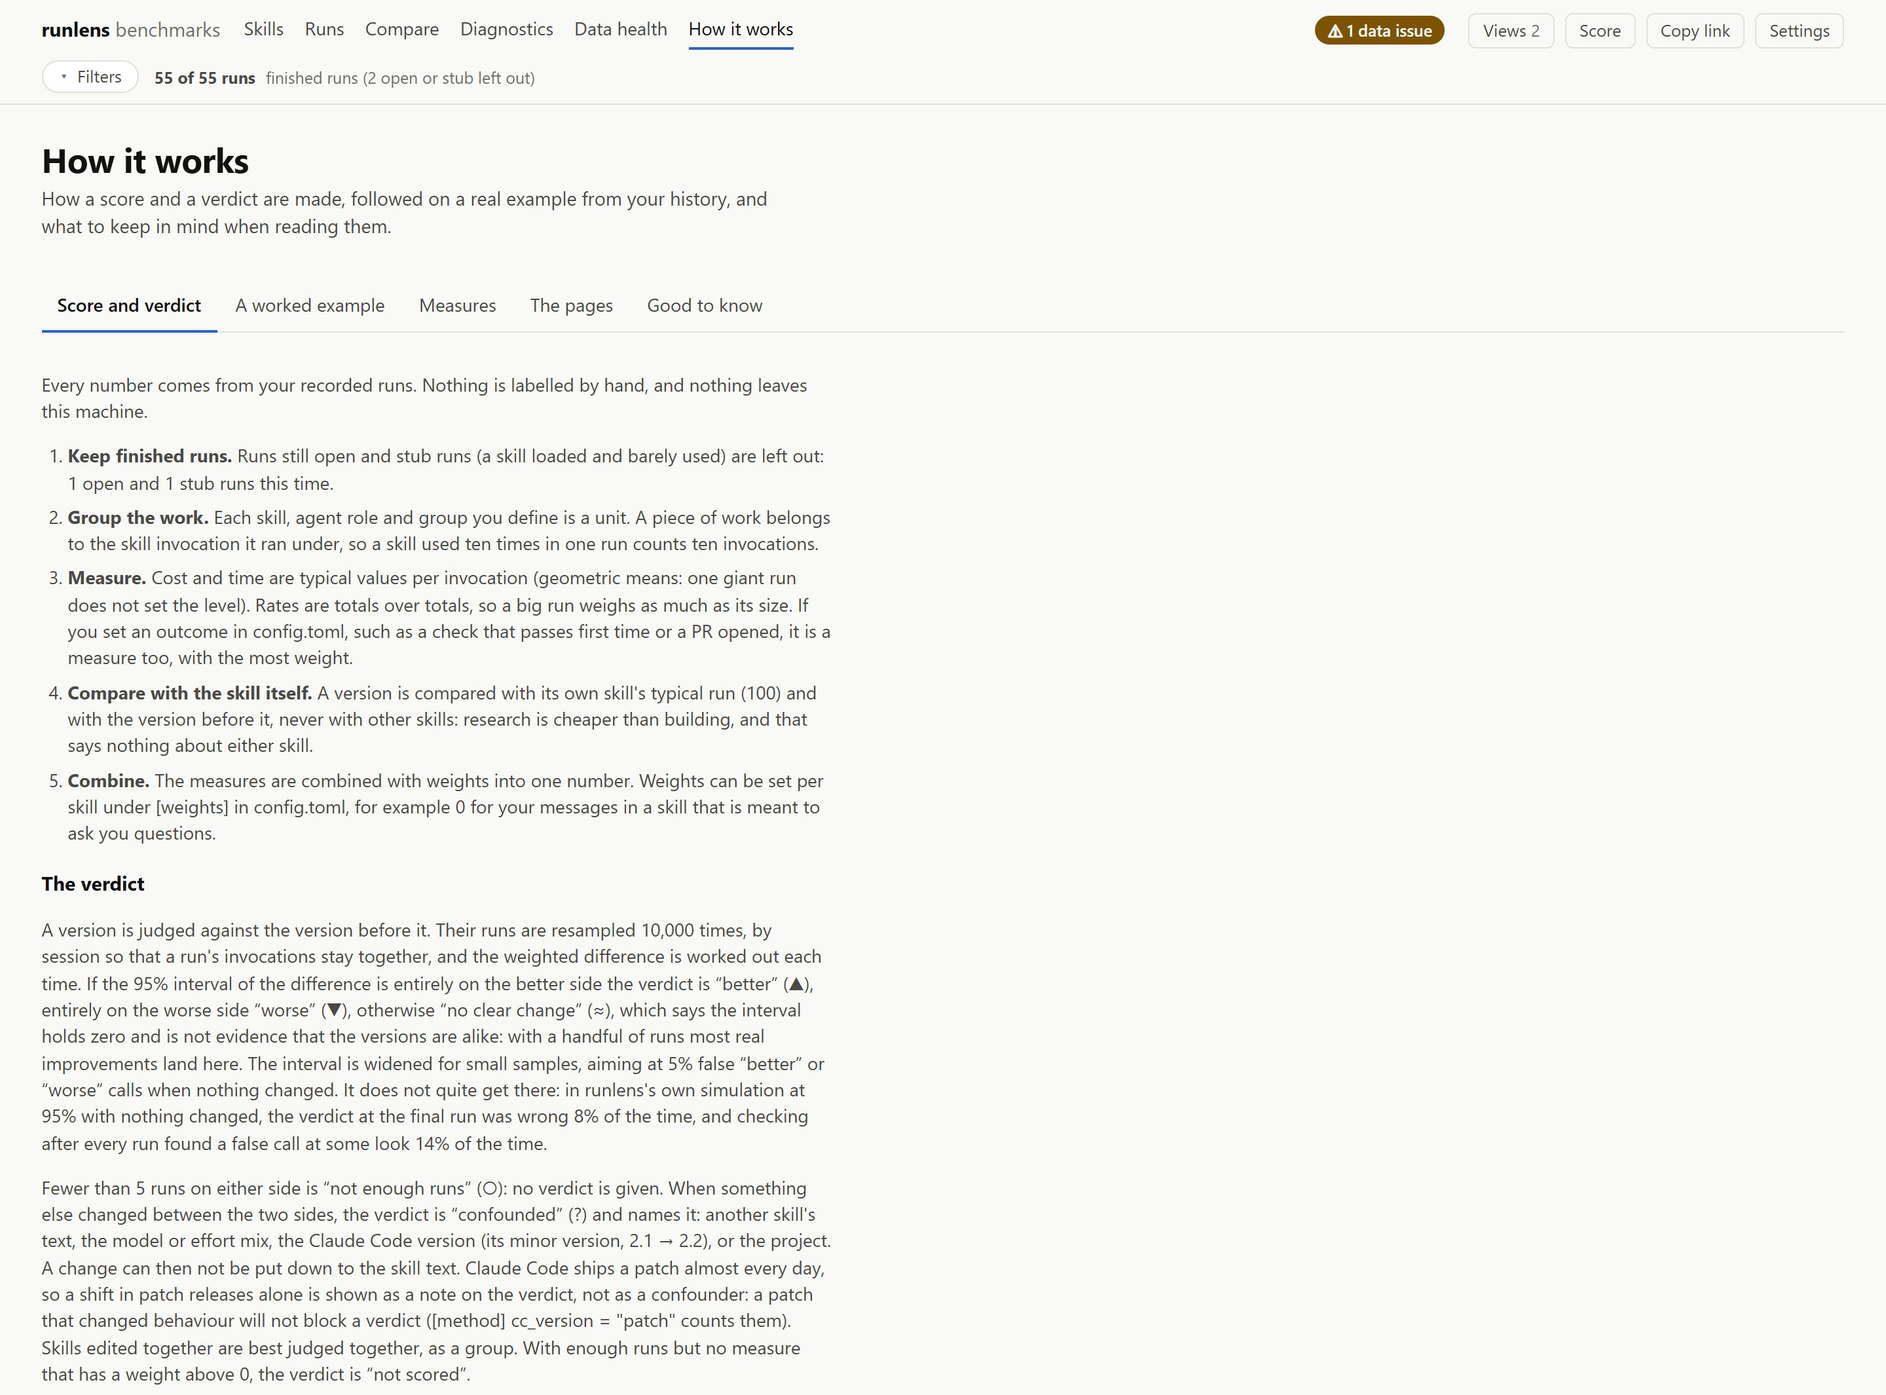
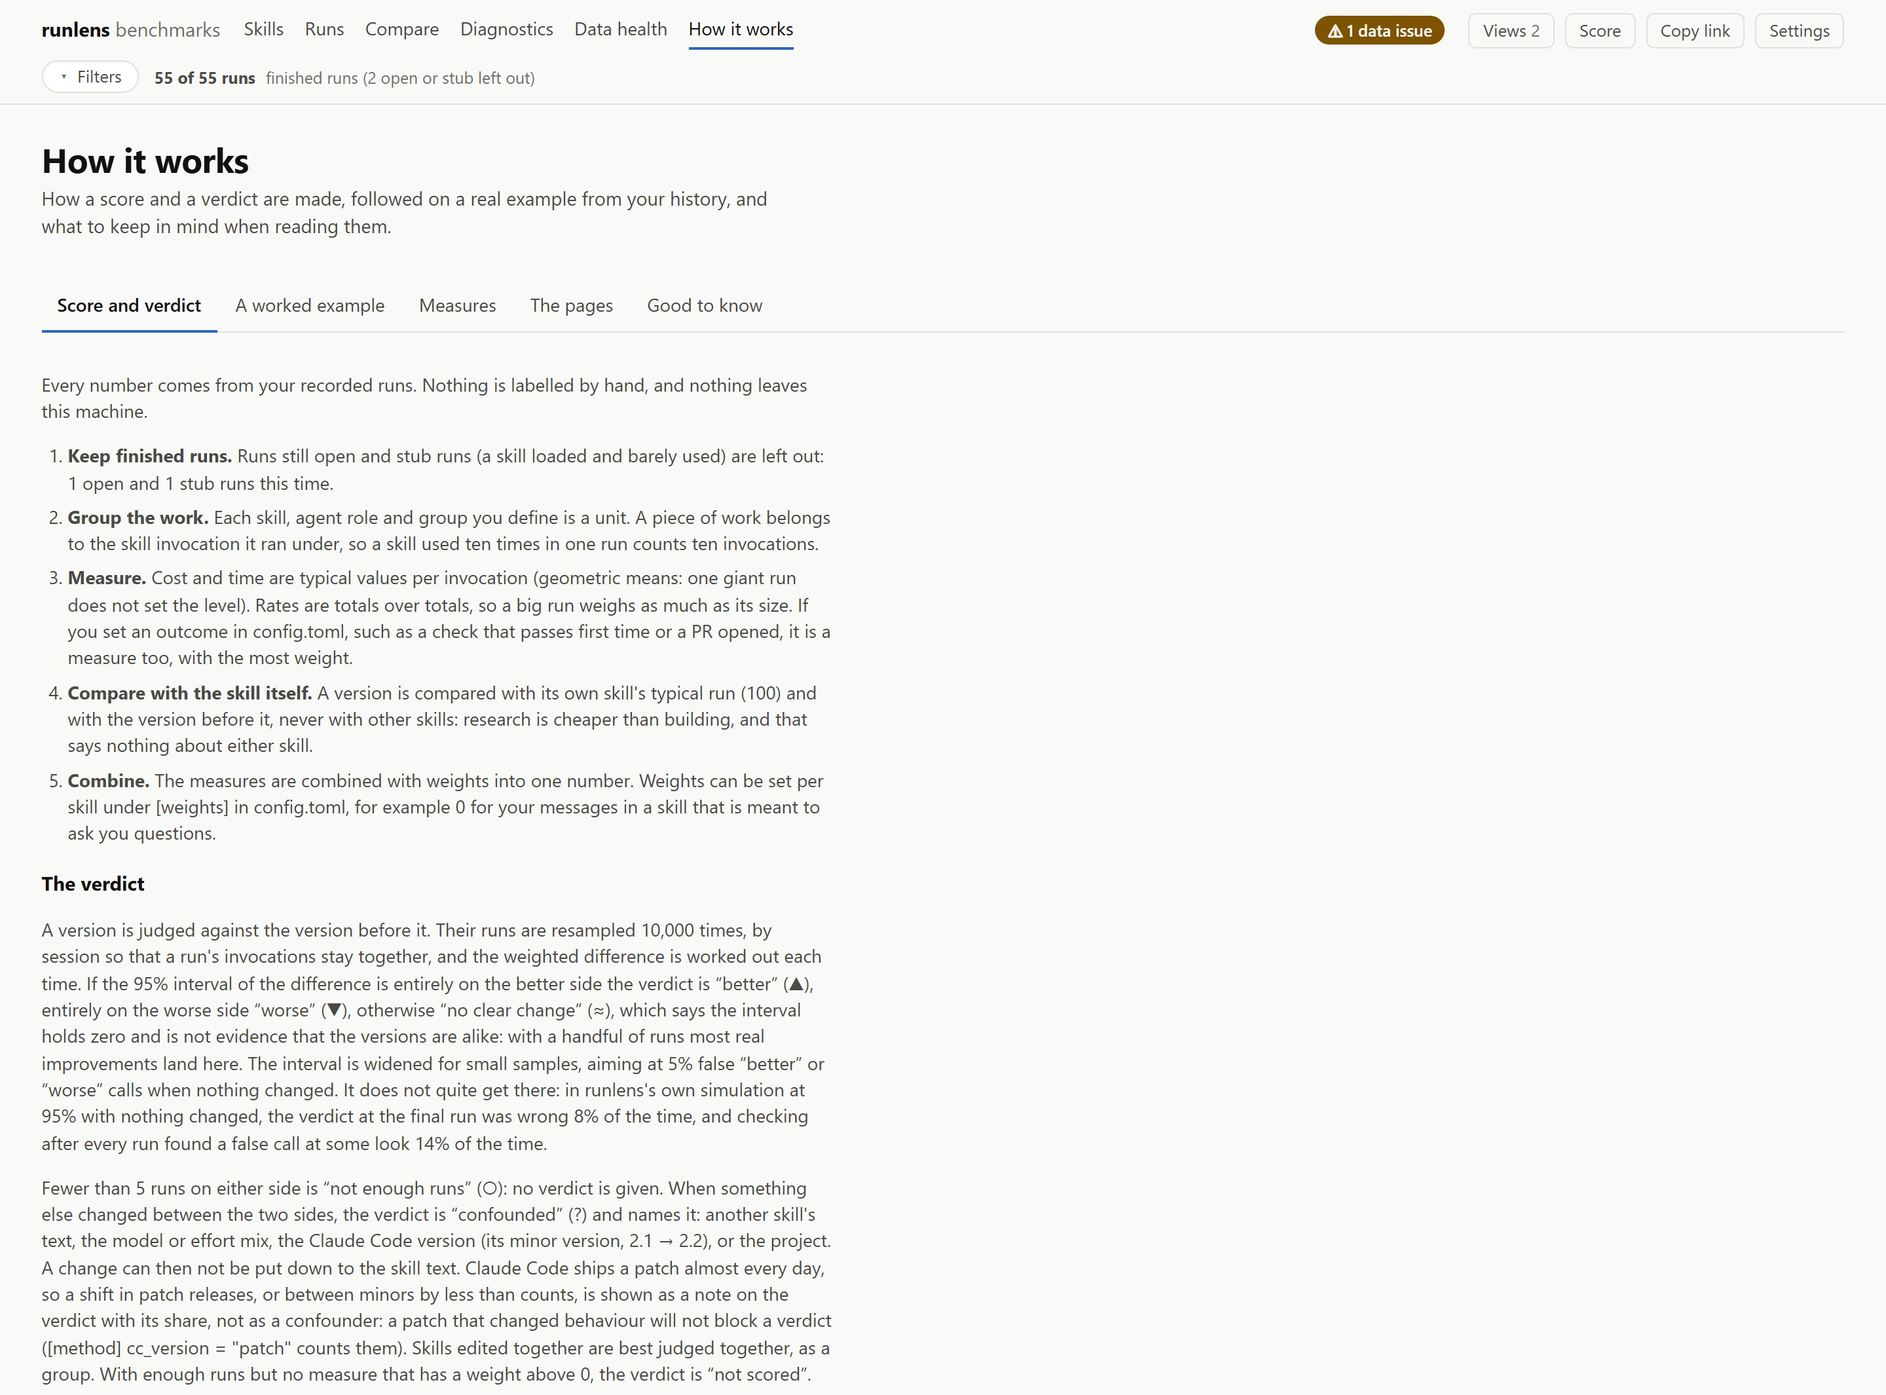
Say a minor shift under the threshold as a minor, not a patch (#28)
Under cc_version = "minor" the note folded every version into "patch
versions", so a 2.2.0 release read as a patch. The note now has two parts:
a shift between minors too small to confound, with its share on each side,
the distance and the threshold it stayed under; and patch drift inside a
minor both sides ran on. The trailing sentence about patches going
unflagged is gone (the README carries that trade-off). Retakes the two
README images that show the note.

Claude-Session: https://claude.ai/code/session_01JjVi7tZzeQ8sDVX8ohKY75

Changed region(s): [[0.0, 0.9296, 0.4375, 0.9915]]

diff --git a/runlens/web/js/pages/method.js b/runlens/web/js/pages/method.js
@@ -59,7 +59,7 @@ function methodPage() {
       li(h("strong", {}, "Combine. "), "The measures are combined with weights into one number. Weights can be set per skill under [weights] in config.toml, for example 0 for your messages in a skill that is meant to ask you questions.")),
     h("h2", {}, "The verdict"),
     h("p", {}, `A version is judged against the version before it. Their runs are resampled ${fmt.int(m.resamples)} times, by session so that a run's invocations stay together, and the weighted difference is worked out each time. If the ${pct}% interval of the difference is entirely on the better side the verdict is “better” (▲), entirely on the worse side “worse” (▼), otherwise “no clear change” (≈), which says the interval holds zero and is not evidence that the versions are alike: with a handful of runs most real improvements land here. The interval is widened for small samples, aiming at ${100 - pct}% false “better” or “worse” calls when nothing changed. It does not quite get there: in runlens's own simulation at 95% with nothing changed, the verdict at the final run was wrong 8% of the time, and checking after every run found a false call at some look 14% of the time.`),
-    h("p", {}, `Fewer than ${m.min_runs} runs on either side is “not enough runs” (○): no verdict is given. When something else changed between the two sides, the verdict is “confounded” (?) and names it: another skill's text, the model or effort mix, the Claude Code version${m.cc_version === "minor" ? " (its minor version, 2.1 → 2.2)" : " (down to the patch release)"}, or the project. A change can then not be put down to the skill text.${m.cc_version === "minor" ? " Claude Code ships a patch almost every day, so a shift in patch releases alone is shown as a note on the verdict, not as a confounder: a patch that changed behaviour will not block a verdict ([method] cc_version = \"patch\" counts them)." : ""} Skills edited together are best judged together, as a group. With enough runs but no measure that has a weight above 0, the verdict is “not scored”.`),
+    h("p", {}, `Fewer than ${m.min_runs} runs on either side is “not enough runs” (○): no verdict is given. When something else changed between the two sides, the verdict is “confounded” (?) and names it: another skill's text, the model or effort mix, the Claude Code version${m.cc_version === "minor" ? " (its minor version, 2.1 → 2.2)" : " (down to the patch release)"}, or the project. A change can then not be put down to the skill text.${m.cc_version === "minor" ? " Claude Code ships a patch almost every day, so a shift in patch releases, or between minors by less than counts, is shown as a note on the verdict with its share, not as a confounder: a patch that changed behaviour will not block a verdict ([method] cc_version = \"patch\" counts them)." : ""} Skills edited together are best judged together, as a group. With enough runs but no measure that has a weight above 0, the verdict is “not scored”.`),
     h("p", {}, "Limits worth knowing. Power is low: with five to ten runs a side, even a large real improvement usually shows as “no clear change”. The verdict is recomputed with the runs so far each time you refresh, so checking it as runs arrive calls a change more often than the nominal rate; judge a version once, after a number of runs you chose in advance. A unit listed among many is one of many tests, so the model also gives each unit a Benjamini-Hochberg q, and a “better” or “worse” it does not support is flagged. A reverted skill (A, then B, then A again) counts as three versions."),
     h("details", { class: "more" }, h("summary", {}, "Exact formula and settings"),
       h("pre", { class: "formula" }, formula),

diff --git a/tests/test_bench.py b/tests/test_bench.py
@@ -376,9 +376,9 @@ class Verdicts(unittest.TestCase):
         v2 = model["versions"]["skill:flow"][1]
         self.assertEqual((v2["verdict"], v2["confounders"]), ("better", []))
         self.assertEqual(len(v2["notes"]), 1, v2["notes"])
-        self.assertTrue(v2["notes"][0].startswith(
-            "Claude Code patches also changed: v1 ran on 6 patch versions (2.1.280 to 2.1.285), "
-            "v2 on 12 patch versions (2.1.290 to 2.1.301), none shared."), v2["notes"][0])
+        self.assertEqual(v2["notes"], ["Claude Code also differed, not counted as a confounder: within 2.1, "
+                                       "v1 ran on 6 patch versions (2.1.280 to 2.1.285), v2 on 12 patch versions (2.1.290 to 2.1.301), "
+                                       "none shared"])
         unit = next(u for u in model["units"] if u["id"] == "skill:flow")
         self.assertEqual(unit["notes"], v2["notes"])
         self.assertEqual(bench.score_summary(model)["units"][0]["notes"], v2["notes"])
@@ -394,6 +394,23 @@ class Verdicts(unittest.TestCase):
         # The same patch on both sides is no note at all.
         model = bench.compute(history([("aaa", 6), ("bbb", 6)]), resamples=200)
         self.assertEqual(model["versions"]["skill:flow"][1]["notes"], [])
+
+    def test_a_minor_shift_below_the_threshold_is_said_as_a_minor_not_a_patch(self):
+        # 2.2 in 3 of v2's 20 runs: the minor mix moved by 0.15, under the 0.3 that confounds. The note names 2.2 with
+        # its share and the threshold, and the patch drift inside 2.1 apart from it; 2.2.0 is never called a patch.
+        cc = lambda v, i: "2.1.284" if v == 0 else ("2.2.0" if i < 3 else "2.1.290")
+        model = bench.compute(history([("aaa", 20), ("bbb", 20)], cc=cc), resamples=200)
+        v2 = model["versions"]["skill:flow"][1]
+        self.assertEqual(v2["confounders"], [])
+        self.assertEqual(v2["notes"], ["Claude Code also differed, not counted as a confounder: 2.2 in 15% of v2's runs and 0% "
+                                       "of v1's (a shift of 0.15, under the 0.34 that counts); within 2.1, v1 ran on 2.1.284, "
+                                       "v2 on 2.1.290, none shared"])
+        # Only the minor moved, with the same patch inside 2.1 on both sides: no patch part.
+        cc = lambda v, i: "2.1.284" if v == 0 or i >= 3 else "2.2.0"
+        v2 = bench.compute(history([("aaa", 20), ("bbb", 20)], cc=cc), resamples=200)["versions"]["skill:flow"][1]
+        self.assertEqual(v2["notes"], ["Claude Code also differed, not counted as a confounder: 2.2 in 15% of v2's runs and 0% "
+                                       "of v1's (a shift of 0.15, under the 0.34 that counts)"])
+        self.assertNotIn("patch", v2["notes"][0])
 
     def test_versions_sort_by_number(self):
         self.assertEqual(sorted(["2.1.10", "2.1.9", "unknown", "2.0.99"], key=bench._version_key),

diff --git a/runlens/bench.py b/runlens/bench.py
@@ -571,11 +571,23 @@ def confounders_of(side_a, side_b, own_skills, ctx, labels=("A", "B")):
             out.append(f"Claude Code version: {la} ran on {_span(a)}, {lb} on {_span(b)}, {_shared(a, b)}; "
                        f"{_top_change(a, b, 'runs')}")
     elif ctx.get("cc_version") == "minor":
-        pa, pb = attr("cc_patch", sids_a), attr("cc_patch", sids_b)
-        if shift(pa, pb) >= limit:
-            notes.append(f"Claude Code patches also changed: {la} ran on {_span(pa, 'patch version')}, "
-                         f"{lb} on {_span(pb, 'patch version')}, {_shared(pa, pb)}. Not counted as a confounder "
-                         "(cc_version = \"minor\"), so a patch that changed behaviour would go unflagged")
+        parts = []
+        moved = shift(a, b)
+        if moved > 0:  # the minor mix moved, but by less than counts: say how much, never call it a patch
+            ta, tb = sum(a.values()), sum(b.values())
+            k = max(sorted(set(a) | set(b), key=_version_key), key=lambda x: (round(abs(b[x] / tb - a[x] / ta), 9), b[x] / tb > a[x] / ta))
+            parts.append(f"{k} in {b[k] / sum(b.values()):.0%} of {lb}'s runs and {a[k] / sum(a.values()):.0%} of {la}'s "
+                         f"(a shift of {moved:.2f}, under the {limit:.2f} that counts)")
+        # patch releases inside a minor both sides ran on
+        both = set(a) & set(b)
+        minor_of = lambda sid: ctx["run_attr"](runs.get(sid), "cc")
+        pa = attr("cc_patch", [sid for sid in sids_a if minor_of(sid) in both])
+        pb = attr("cc_patch", [sid for sid in sids_b if minor_of(sid) in both])
+        if pa and pb and shift(pa, pb) >= mix_threshold(min(sum(pa.values()), sum(pb.values()))):
+            within = f"within {next(iter(both))}" if len(both) == 1 else "within the same minor"
+            parts.append(f"{within}, {la} ran on {_span(pa, 'patch version')}, {lb} on {_span(pb, 'patch version')}, {_shared(pa, pb)}")
+        if parts:
+            notes.append("Claude Code also differed, not counted as a confounder: " + "; ".join(parts))
     a, b = attr("repo", sids_a), attr("repo", sids_b)
     if shift(a, b) >= limit:
         out.append(f"project mix: {_top_change(a, b, 'runs')}")

diff --git a/tests/test_proposals.py b/tests/test_proposals.py
@@ -103,7 +103,7 @@ class Proposals(unittest.TestCase):
         r = proposals.verify(self.con, m, "p-0001")[0]
         self.assertEqual((r["verdict"], r["confounders"]), ("confirmed", []))
         self.assertEqual(len(r["notes"]), 1, r["notes"])
-        self.assertTrue(r["notes"][0].startswith("Claude Code patches also changed: v1 ran on 6 patch versions"), r["notes"])
+        self.assertTrue(r["notes"][0].startswith("Claude Code also differed, not counted as a confounder: within 2.1, v1 ran on 6 patch versions"), r["notes"])
 
 
 class CommandLine(unittest.TestCase):
@@ -173,8 +173,8 @@ class CommandLine(unittest.TestCase):
         self.assertNotIn("confounded by", text)  # the verdict is not enough runs: the confounders decided nothing
         self.assertIn("confounded by", cli._versions_text({"skill": "flow", "versions": [{**v, "verdict": "confounded"}]}))
         # a note is said under any verdict, apart from the confounders
-        noted = cli._versions_text({"skill": "flow", "versions": [{**v, "verdict": "better", "notes": ["Claude Code patches also changed"]}]})
-        self.assertIn("v2: note: Claude Code patches also changed", noted)
+        noted = cli._versions_text({"skill": "flow", "versions": [{**v, "verdict": "better", "notes": ["Claude Code also differed"]}]})
+        self.assertIn("v2: note: Claude Code also differed", noted)
         self.assertNotIn("confounded by", noted)
         empty = cli._score_text({"kind": "skill", "population": {"runs": 0, "open": 0, "stub": 0}, "units": []})
         self.assertIn("runlens refresh", empty)

diff --git a/tests/test_web.py b/tests/test_web.py
@@ -441,7 +441,7 @@ class Renders(unittest.TestCase):
     def test_a_note_on_the_verdict_is_shown_beside_it(self):
         # A Claude Code patch shift under cc_version = "minor" is a note: said next to the verdict, not a confounder.
         m = copy.deepcopy(model())
-        note = "Claude Code patches also changed: v1 ran on 2 patch versions (2.1.1, 2.1.2), v2 on 2.1.9, none shared"
+        note = "Claude Code also differed, not counted as a confounder: within 2.1, v1 ran on 2 patch versions (2.1.1, 2.1.2), v2 on 2.1.9, none shared"
         m["units"][0]["notes"] = [note]
         m["versions"]["skill:flow"][1]["notes"] = [note]
         path = TMP / "notes.html"

diff --git a/README.md b/README.md
@@ -192,7 +192,7 @@ The question runlens answers is *did a change to this skill make its runs better
   - *Multiplicity.* Each listed unit is one of many tests, so the model gives it a Benjamini-Hochberg q over all units compared (`p_adjusted` in `runlens score --json`), and the dashboard says when a `better` or `worse` does not survive it. Per-measure intervals in Compare are exploratory and not adjusted.
   - *Monte Carlo error.* The ends of an interval rest on a few draws with five runs a side, hence 10,000 resamples by default. The dashboard recomputes with at most 4,000 (it works in the page, so it trades precision for speed) and its own generator, so a recomputed interval can differ from the model's by several points at small samples.
 - **Confounders.** When something else changed between the two sides, the verdict is `confounded` and names it: another skill's text changed in the same runs, the model (full id, so haiku-4-5 → haiku-5-5 counts) or effort mix of the main agent shifted, the Claude Code minor version changed (2.1 → 2.2), or the project mix changed. When each side ran on one value the reason names the change (`Claude Code 2.1 → 2.2`); when a side spans several, it says how many each side ran on and how many they share, then the value whose share of runs moved most (`Claude Code version: v1 ran on 2.1, v2 on 2 versions (2.1, 2.2), 1 shared; 2.2 0% → 40% of runs`). Percentages are shares of runs, of main-agent cost for the model mix, and of turns for the effort mix. A mix counts as shifted when its total variation distance reaches 0.3, or more when there are few runs (1.5 / √runs on the smaller side), so chance alone rarely trips it. The raw direction is kept, but the change cannot be put down to the skill text.
-- **Claude Code patch releases.** Claude Code ships a patch almost every day, so if patches confounded, nearly every verdict would be `confounded` and real changes would be hidden. By default (`[method] cc_version = "minor"`) a shift in patch releases alone is a note on the verdict, not a confounder: `Claude Code patches also changed: v1 ran on 6 patch versions (2.1.280 to 2.1.285), v2 on 22 patch versions (2.1.290 to 2.1.311), none shared`. The note does not say the patches caused anything; it says they differed. The trade-off: a patch that did change behaviour will not block a verdict. Set `cc_version = "patch"` to count every patch release as a confounder.
+- **Claude Code patch releases.** Claude Code ships a patch almost every day, so if patches confounded, nearly every verdict would be `confounded` and real changes would be hidden. By default (`[method] cc_version = "minor"`) a shift in patch releases alone is a note on the verdict, not a confounder, and so is a shift between minors too small to count, with its share and the threshold it stayed under: `Claude Code also differed, not counted as a confounder: 2.2 in 15% of v2's runs and 0% of v1's (a shift of 0.15, under the 0.34 that counts); within 2.1, v1 ran on 6 patch versions (2.1.280 to 2.1.285), v2 on 22 patch versions (2.1.290 to 2.1.311), none shared`. The note does not say the change caused anything; it says the versions differed. The trade-off: a patch that did change behaviour will not block a verdict. Set `cc_version = "patch"` to count every patch release as a confounder.
 - **Outcome.** Without an `[outcome]`, the score measures cost and friction only, and a cheaper skill that does less would look better. Configure one: a marker's first-pass rate (a chain of checks counts as one attempt, a success at the first check is a first-pass success) or `pr = "opened"`. The dashboard also shows cost per success.
 
 **What the score does not tell you.**

diff --git a/CHANGELOG.md b/CHANGELOG.md
@@ -26,7 +26,7 @@
 
 ### Method
 - Confounders (#8): a change of model within a family (haiku-4-5 → haiku-5-5) now confounds a verdict: models are compared by full id.
-- Claude Code patch releases no longer confound a verdict by default (#28). Claude Code ships a patch almost daily, so with `[method] cc_version = "patch"` nearly every verdict came out `confounded`. The default is now `"minor"`: a minor change (2.1 → 2.2) confounds, and a shift in patch releases alone is a note on the verdict (`notes` in the JSON of `score`, `versions` and `verify`, shown under their tables and next to the verdict in the dashboard), such as "Claude Code patches also changed: v1 ran on 6 patch versions (…), v2 on 22 patch versions (…), none shared". A patch that changed behaviour no longer blocks a verdict; set `"patch"` to be strict. Expect fewer `confounded` verdicts.
+- Claude Code patch releases no longer confound a verdict by default (#28). Claude Code ships a patch almost daily, so with `[method] cc_version = "patch"` nearly every verdict came out `confounded`. The default is now `"minor"`: a minor change (2.1 → 2.2) confounds, and a shift in patch releases inside a minor, or between minors by less than the mix threshold, is a note on the verdict (`notes` in the JSON of `score`, `versions` and `verify`, shown under their tables and next to the verdict in the dashboard), such as "Claude Code also differed, not counted as a confounder: 2.2 in 27% of v2's runs and 0% of v1's (a shift of 0.27, under the 0.57 that counts); within 2.1, v1 ran on 2.1.284, v2 on 2 patch versions (2.1.284, 2.1.290), 1 shared". A patch that changed behaviour no longer blocks a verdict; set `"patch"` to be strict. Expect fewer `confounded` verdicts.
 - Confounder reasons say how many versions each side ran on and how many they share, instead of naming only each side's most common version as if it were one upgrade. A percentage now says what it is a share of (`of runs`, `of the runs that used plan`, `of main-agent cost`, `of turns`), and a skill that ran on one version per side reads `plan also changed (a1b2c3d4 → e5f6a7b8)`, as in the README.
 - The confounder check no longer depends on `PYTHONHASHSEED`: sessions are sorted, ties are broken by name, and another skill's versions are compared as distributions, not by their most common value.
 - The mix-shift threshold is 0.3 or 1.5 / √runs, whichever is higher, so two projects at 50/50 no longer trip it by chance with few runs.
